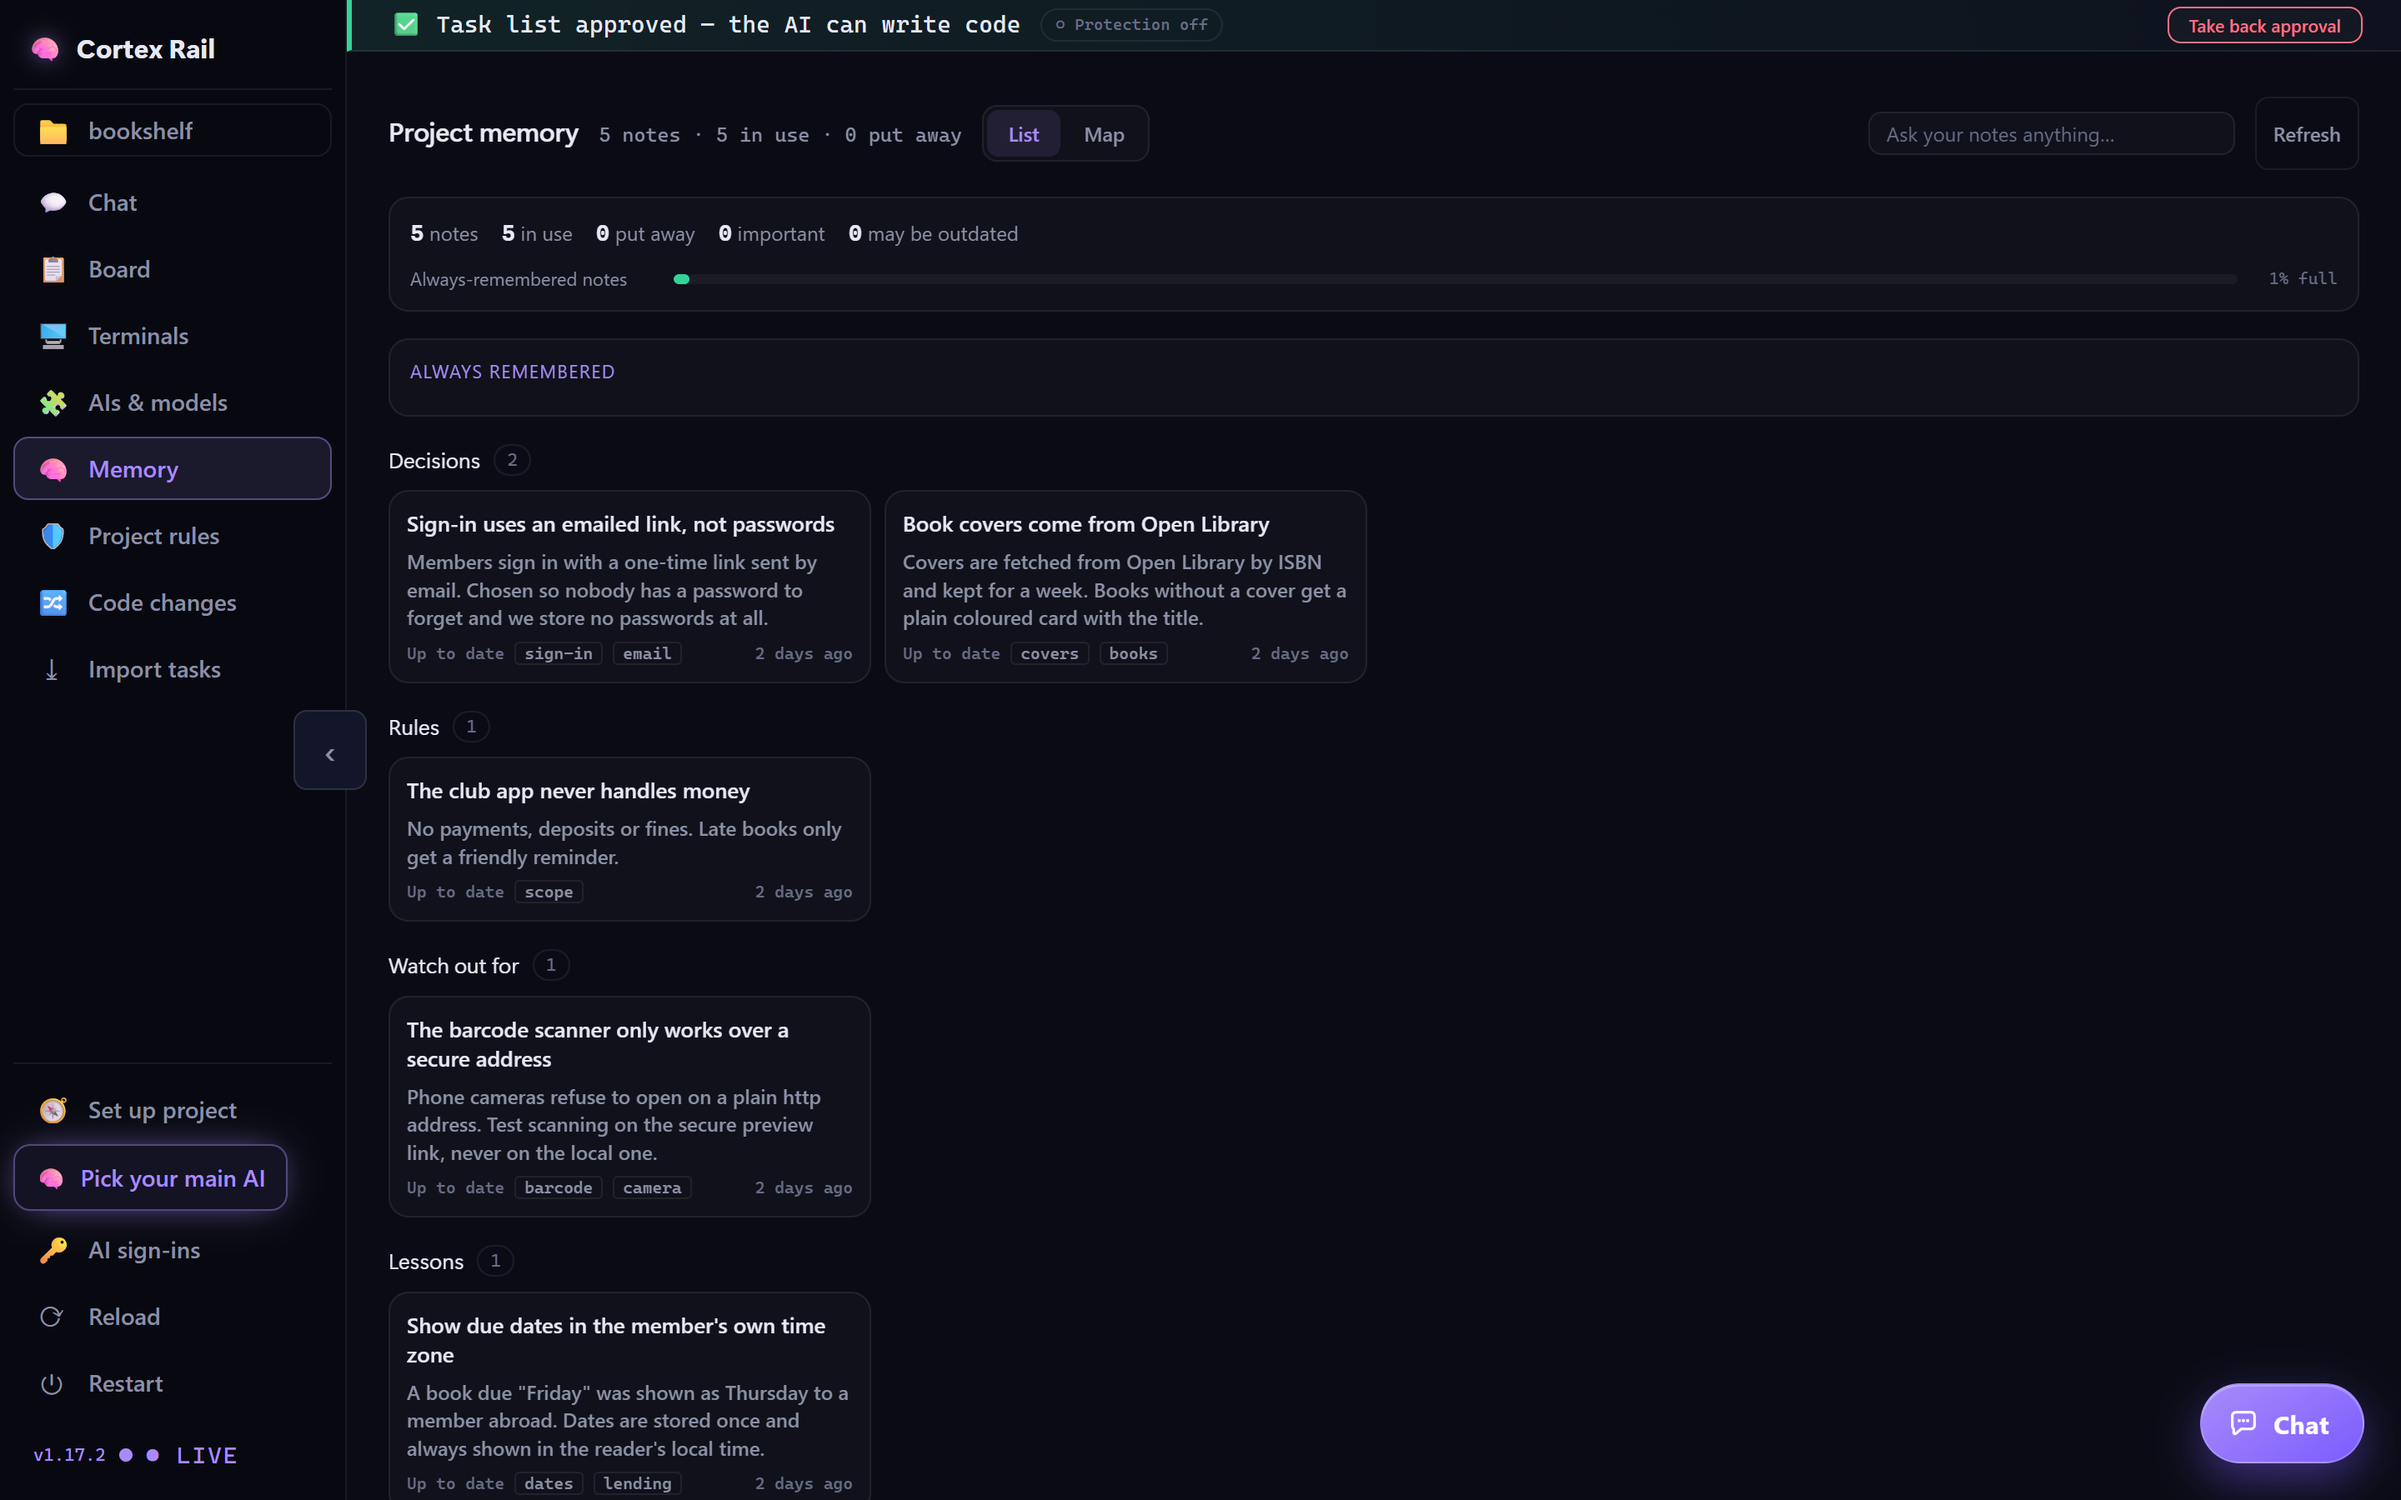
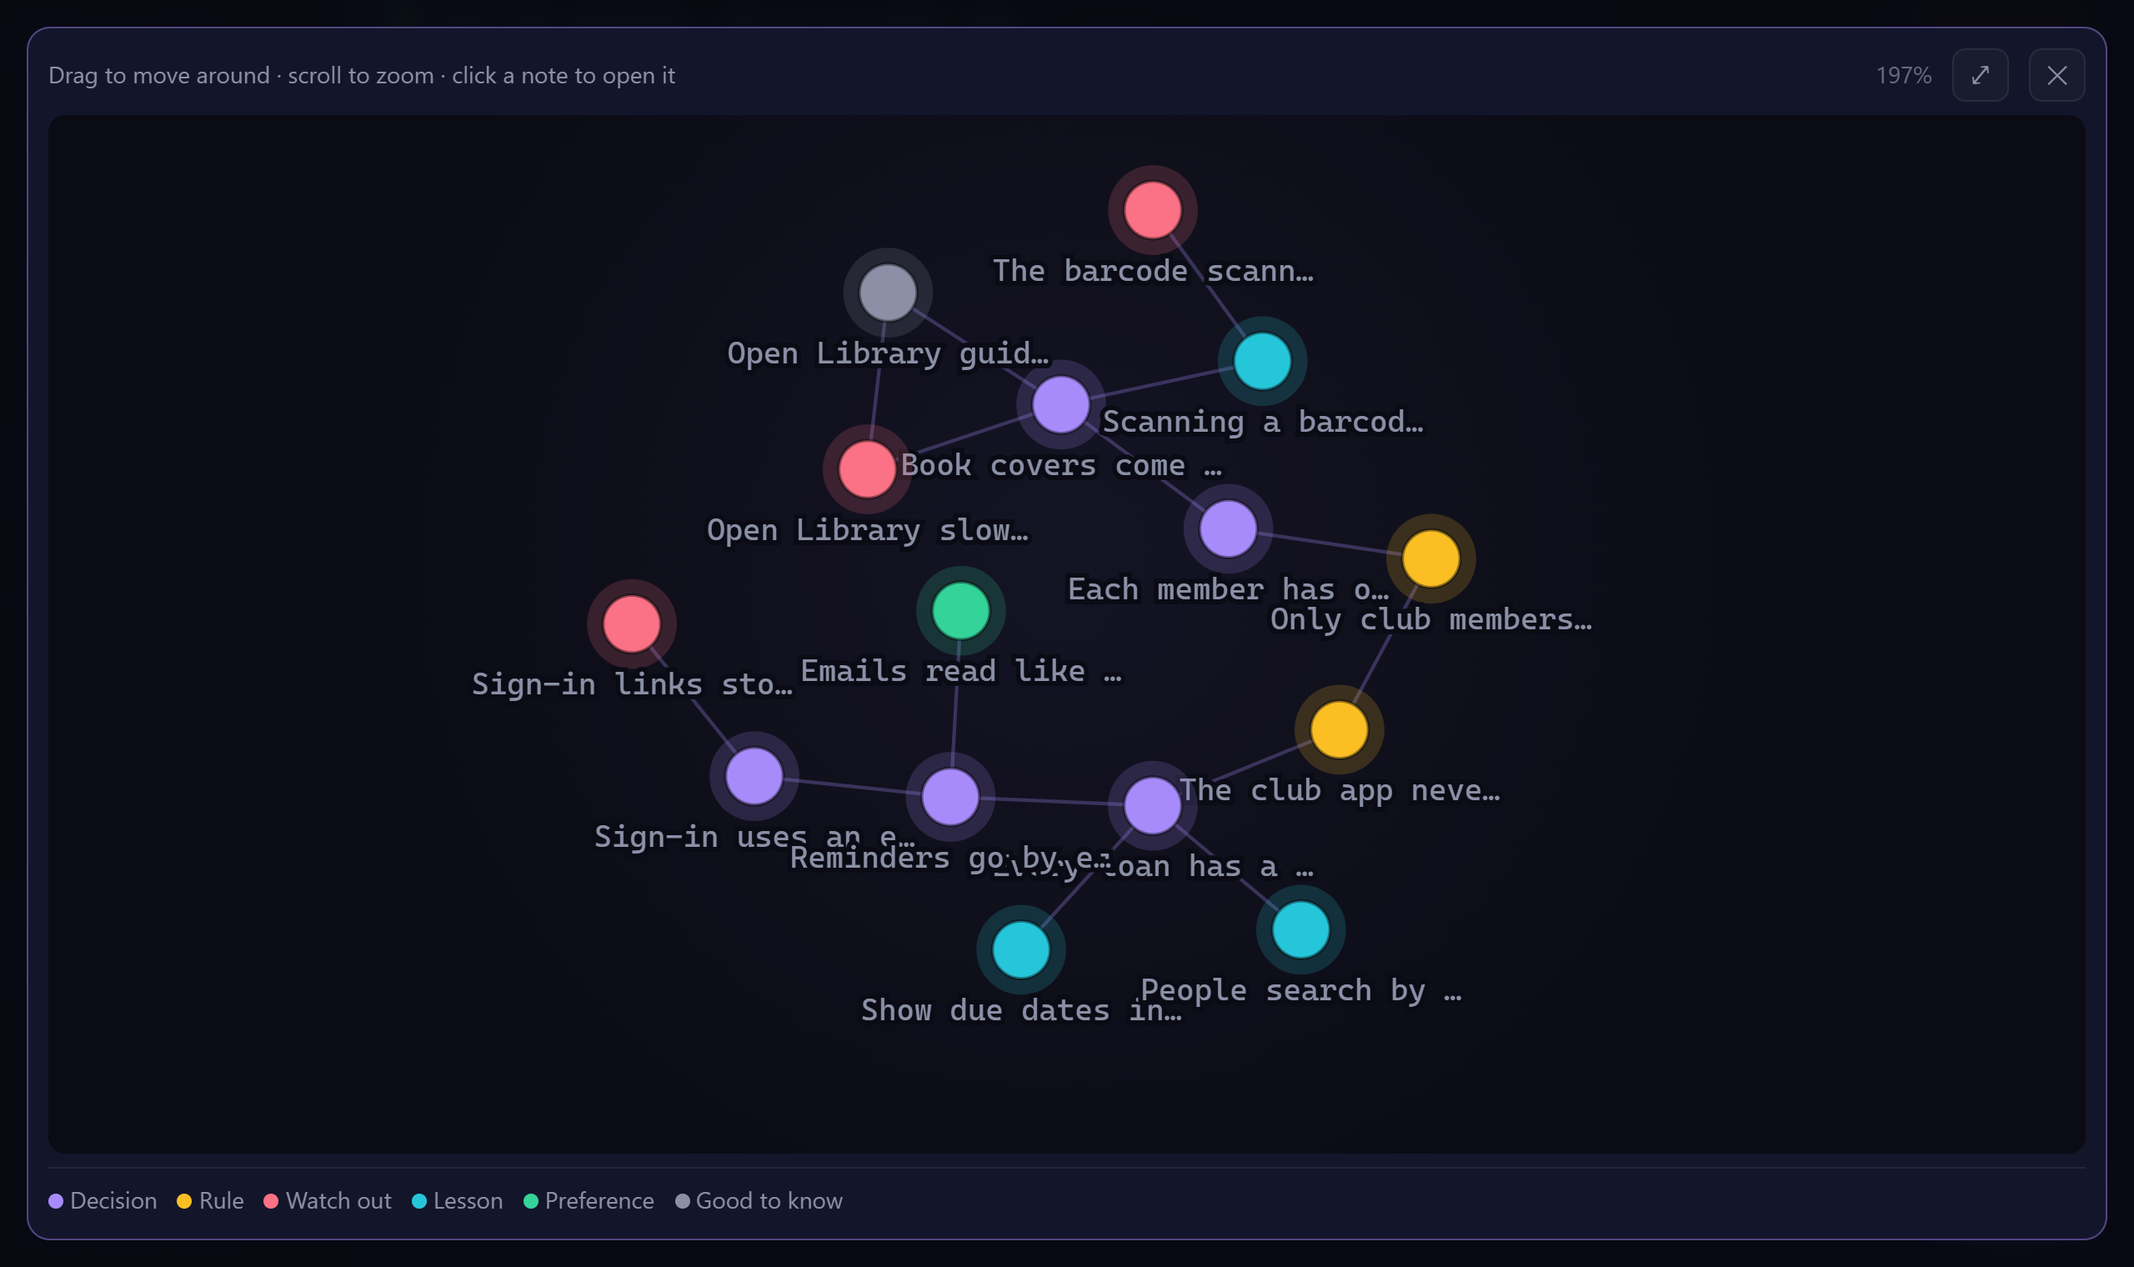
Readme: memory shown as a map, and a section on choosing an AI for each step

diff --git a/README.md b/README.md
@@ -80,13 +80,22 @@ Start work, approve a plan, check progress, answer the AI's questions — all fr
 
 ### A project memory that never forgets
 
-<img src="docs/images/memory.png" alt="The Memory screen: short notes grouped into decisions, rules, things to watch out for and lessons" />
+<img src="docs/images/memory.png" alt="The memory map: each dot is a note — decisions, rules, things to watch out for, lessons — joined to the notes it relates to" />
 
 - **It writes things down.** Decisions, rules, pitfalls and lessons are saved as short notes inside your project. When a task is done, the AI records what it learned — and every save can be undone.
 - **It finds the right note by meaning.** Before each message, the notes that matter are picked out and handed to the AI. You stop repeating yourself, and the AI stops re-reading everything.
 - **It stays on your computer.** The search runs locally. Your notes are not sent anywhere to be searched.
 - **It knows when it might be wrong.** Notes about code that has since changed are marked, so the AI checks before trusting them.
 - **It tidies itself.** Old notes are put away automatically, so the working set stays small.
+- **You can see it.** Browse the notes as a list, or as a map of how they connect.
+
+### The right AI for each step
+
+Planning is short but decides everything. Writing the code is long but only follows the plan. So put your strongest AI on the thinking and a cheaper one on the typing — and a different one again to check the result.
+
+<img src="docs/images/ais.png" alt="Choosing an AI for each step: Claude Code for understanding and planning, Codex for breaking the plan into tasks and testing, OpenCode for writing the code" />
+
+You choose the AI for every step; the app never picks for you. Whichever ones you use, they follow the same rules and share the same memory, so a task planned by one can be built by another and checked by a third.
 
 ### Lower AI bills
 
@@ -110,7 +119,7 @@ Cortex Rail runs locally. There is no Cortex Rail account and no Cortex Rail ser
 
 ## Supported AIs
 
-Use one, or mix them — each can take the step it is best at, and they all follow the same rules and share the same memory. Cortex Rail finds the ones you have installed and lets you choose.
+Use one, or mix them. Cortex Rail finds the ones you have installed and can help you add the rest.
 
 | | | | |
 | :-- | :-- | :-- | :-- |
